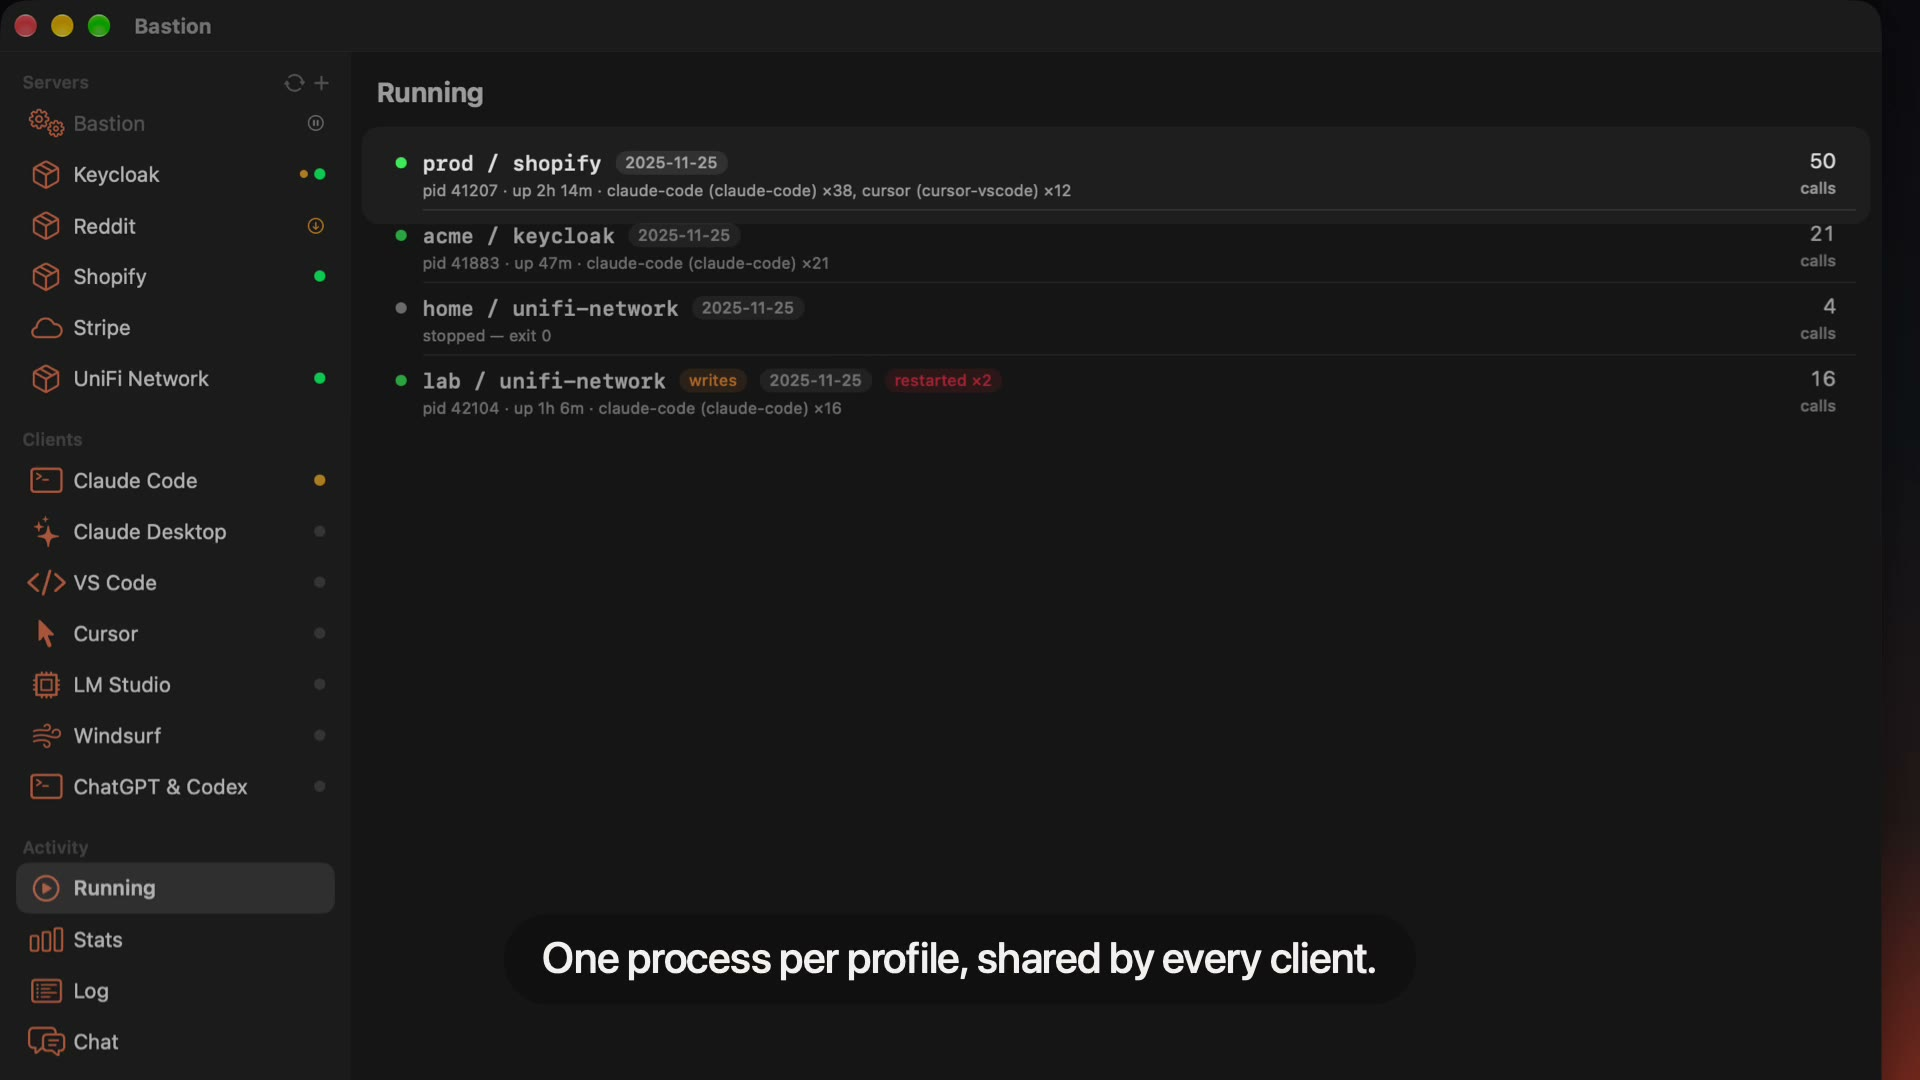
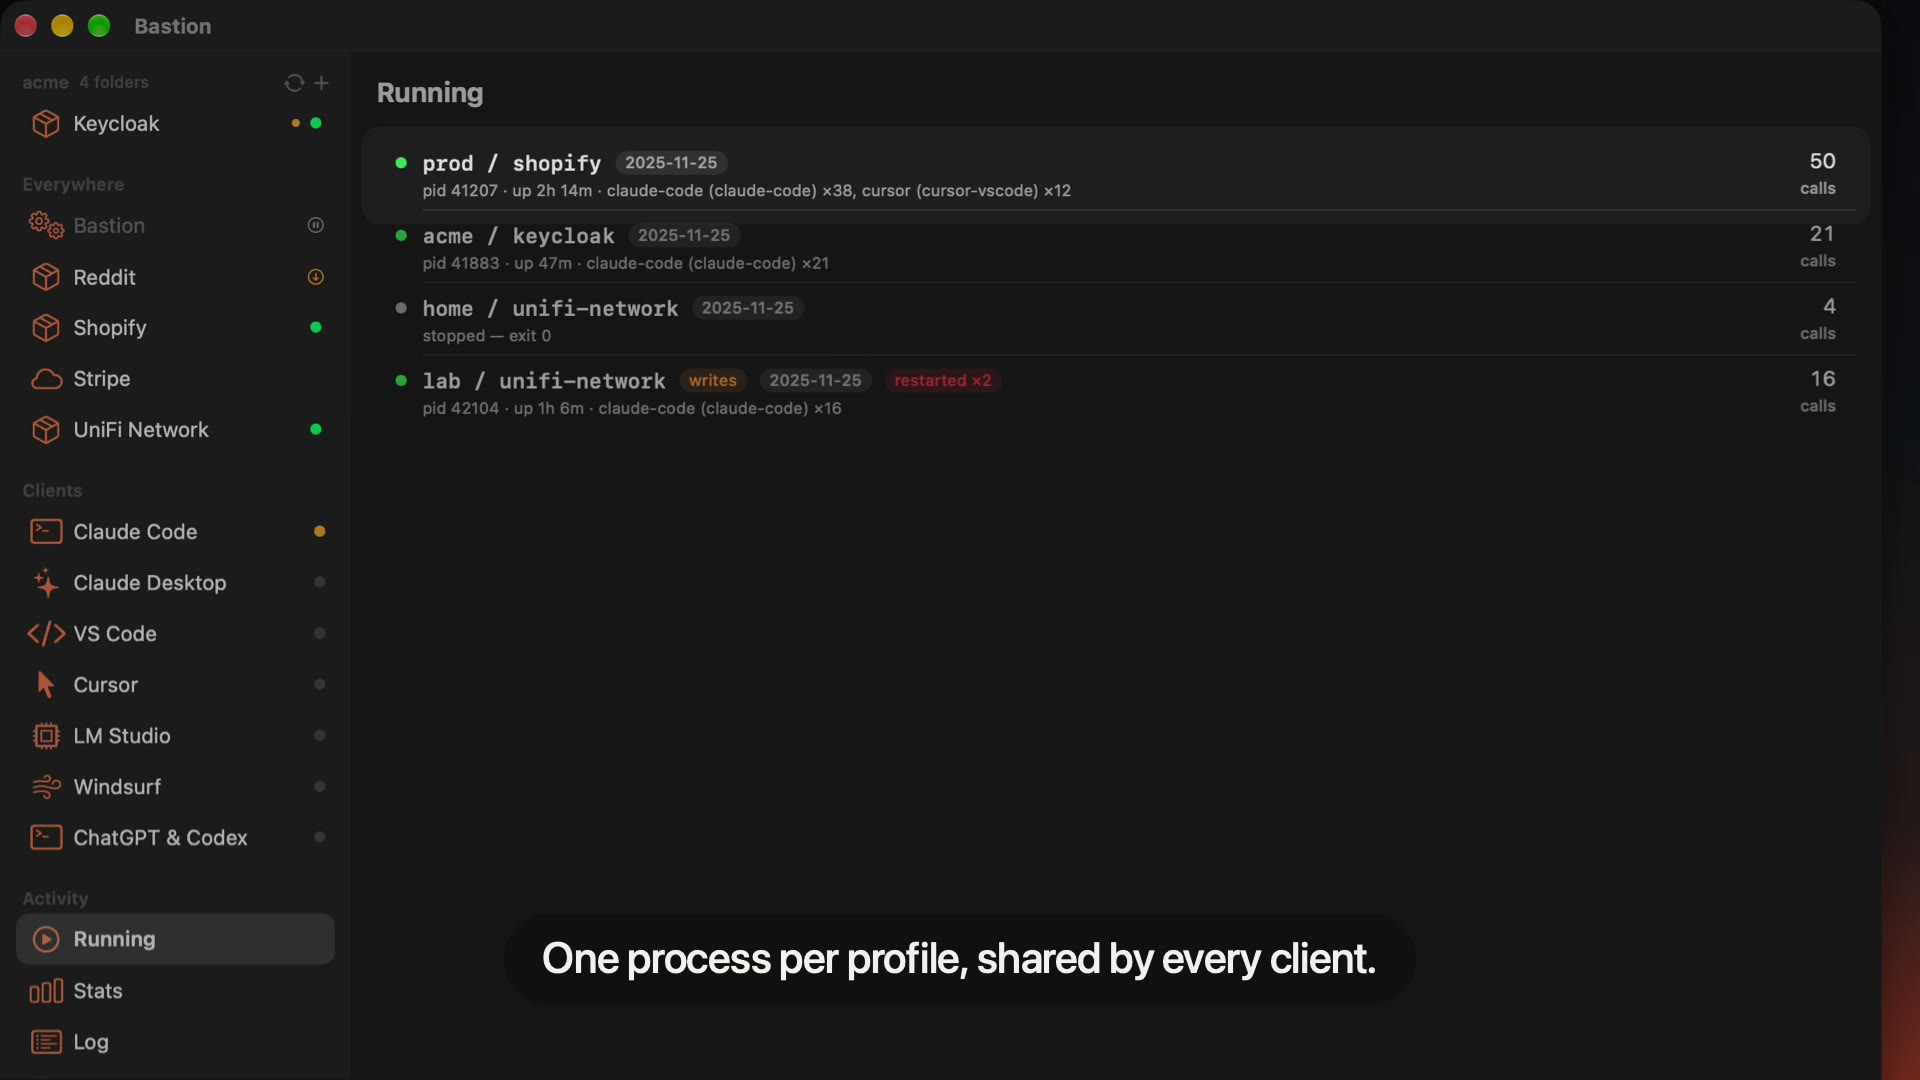
chore(release): Bastion 1.34.0

diff --git a/apps/apple/Bastion/Changelog.swift b/apps/apple/Bastion/Changelog.swift
@@ -66,7 +66,72 @@ nonisolated enum Changelog {
   /// literal, and this one is releases of sections of entries of strings — the
   /// exact shape that turns into a multi-second type-check with no diagnostic.
   // swift-format-ignore
-  static let releases: [Release] = [v1_33_0, v1_32_0, v1_31_0, v1_30_0, v1_29_0]
+  static let releases: [Release] = [v1_34_0, v1_33_0, v1_32_0, v1_31_0, v1_30_0]
+
+  // swift-format-ignore
+  private static let v1_34_0: Release = Release(
+    version: "1.34.0",
+    date: "2026-10-30",
+    sections: [
+      Section(
+        name: "Added",
+        lead: [],
+        entries: [
+          Entry(
+            ordinal: 0,
+            headline: "Workspaces live in the sidebar.",
+            body: [
+              "Once a workspace exists, the server list has a section per workspace and an Everywhere section for the profiles every client gets. Drag a server between sections to move its profiles, or use Move to on its right-click menu to move one profile of a server that has several. A server split between sections shows in each, with its profile names beside it. Sections collapse, and stay collapsed.",
+            ]),
+          Entry(
+            ordinal: 1,
+            headline: "New workspace, under Add server.",
+            body: [
+              "It asks for a name and at least one folder, since a workspace that reaches no folder would take every profile dropped into it out of every client.",
+            ]),
+          Entry(
+            ordinal: 2,
+            headline: "A page per workspace",
+            body: [
+              "in the main window, with its folders, the folders Claude Code is given, its profiles and its skills. Rename and Delete are there and on the section header's menu.",
+            ]),
+          Entry(
+            ordinal: 3,
+            headline: "A Scope menu in the profile editor",
+            body: [
+              "puts a profile in one workspace, or in none.",
+            ]),
+        ]),
+      Section(
+        name: "Changed",
+        lead: [],
+        entries: [
+          Entry(
+            ordinal: 4,
+            headline: "A workspace now reaches the plain folders between its folder and the repositories below it.",
+            body: [
+              "Claude Code applies a block outside git to that exact folder only, so a session started in, say, `~/Projects/rgis/rgis-ai` got none of the workspace's servers. It does now.",
+            ]),
+          Entry(
+            ordinal: 5,
+            headline: "A repository cloned under a workspace's folder gets its servers within seconds",
+            body: [
+              ", without pressing Rescan. Bastion watches the workspace folders and rewires when a repository appears or disappears below them.",
+            ]),
+          Entry(
+            ordinal: 6,
+            headline: "Settings → Workspaces is gone",
+            body: [
+              "; everything it held is on the workspace pages.",
+            ]),
+          Entry(
+            ordinal: 7,
+            headline: "A custom server at an address on this Mac is tagged local, in blue",
+            body: [
+              ", rather than custom, in its pane's header.",
+            ]),
+        ]),
+    ])
 
   // swift-format-ignore
   private static let v1_33_0: Release = Release(
@@ -171,36 +236,6 @@ nonisolated enum Changelog {
             headline: "A right-click menu on each server in the sidebar",
             body: [
               ", with Edit…, Enable or Disable, and Remove Server…. Each item appears only where the server's own page offers it: Edit… on a server you added yourself, Remove Server… on anything but Bastion's own server. Removing still asks first, and says what goes with the server: its profiles, their credentials in the Keychain and its downloaded code.",
-            ]),
-        ]),
-    ])
-
-  // swift-format-ignore
-  private static let v1_29_0: Release = Release(
-    version: "1.29.0",
-    date: "2026-10-15",
-    sections: [
-      Section(
-        name: "Added",
-        lead: [],
-        entries: [
-          Entry(
-            ordinal: 0,
-            headline: "Rename a profile.",
-            body: [
-              "Rename… on a profile's row, and `rename_profile` on Bastion's own server, give a profile a new name. Its credentials and OAuth sign-in, the state its server keeps (a child's own login, its callback port), its workspaces and its usage history move with it, and every client Bastion configured is rewired to the new endpoint. The client's tool names change with the entry, so permission rules naming the old ones stop matching. The audit log keeps the old name, since its lines are hash-chained.",
-            ]),
-          Entry(
-            ordinal: 1,
-            headline: "Shopify can write, behind the writes switch.",
-            body: [
-              "From mcp-shopify 0.7.0, a profile with writes on can set and delete metafields, update a product's and its variants' content, and adjust or set inventory. None of these deletes a product. `SHOPIFY_ALLOW_RAW_MUTATIONS` adds `shopify_graphql_mutation`, which runs any mutation the app's access scopes allow, deletes and refunds included. The switch decides which tools the server offers, not what the credential can do, so grant `write_*` scopes only to an app whose profile is meant to write. A server still on 0.6.0 stays read-only.",
-            ]),
-          Entry(
-            ordinal: 2,
-            headline: "Shopify Dev is in the catalog",
-            body: [
-              ": the server from Shopify's AI Toolkit that searches shopify.dev and validates generated GraphQL, Liquid and UI code, with no credential. It reports usage to Shopify by default, and its profile offers `OPT_OUT_INSTRUMENTATION` to stop that.",
             ]),
         ]),
     ])

diff --git a/apps/apple/Bastion/DemoSeed.swift b/apps/apple/Bastion/DemoSeed.swift
@@ -303,7 +303,7 @@ enum DemoSeed {
   ///
   /// Pinned rather than read, so a release does not churn every golden. Bump it
   /// deliberately, in the commit that re-captures.
-  nonisolated static let version = "1.32.0"
+  nonisolated static let version = "1.34.0"
 
   /// A licence that is rendered and never verified. See `LicenseStore.demoKey`.
   nonisolated static let license = License(

diff --git a/apps/website/src/config.ts b/apps/website/src/config.ts
@@ -335,7 +335,7 @@ export const TRIAL = {
  * before it. CI holds it to the pbxproj's MARKETING_VERSION, and
  * `src/data/changelog.ts` to a released section of CHANGELOG.md.
  */
-export const APP_VERSION = "1.33.0";
+export const APP_VERSION = "1.34.0";
 
 /**
  * The MCP clients Bastion can wire in one click.

diff --git a/CHANGELOG.md b/CHANGELOG.md
@@ -4,10 +4,14 @@ Notable changes to this repository. The format follows
 [Keep a Changelog](https://keepachangelog.com/en/1.1.0/), and every published artifact follows
 [semantic versioning](https://semver.org/spec/v2.0.0.html).
 
-The signed macOS app is tagged per release, `app-v1.33.0` being the newest. GitHub release notes
+The signed macOS app is tagged per release, `app-v1.34.0` being the newest. GitHub release notes
 are taken from this file, which is the curated summary.
 
-## [Unreleased]
+## [1.34.0] - 2026-10-30
+
+**Workspaces live in the sidebar.** Drag a client's servers into a workspace and they reach Claude
+Code only in that client's folders, including every folder below them and repositories cloned
+later.
 
 ### Added
 
@@ -31,6 +35,14 @@ are taken from this file, which is the curated summary.
   pressing Rescan. Bastion watches the workspace folders and rewires when a repository appears or
   disappears below them.
 - **Settings → Workspaces is gone**; everything it held is on the workspace pages.
+- **A custom server at an address on this Mac is tagged local, in blue**, rather than custom, in
+  its pane's header.
+
+### Internal
+
+- The screenshots, the website's captures and its tour video were re-taken for the sidebar's
+  workspace sections, and the plates now read 1.34.0.
+- The design and plan for workspaces in the sidebar are in `docs/superpowers/`.
 
 ## [1.33.0] - 2026-10-30
 
